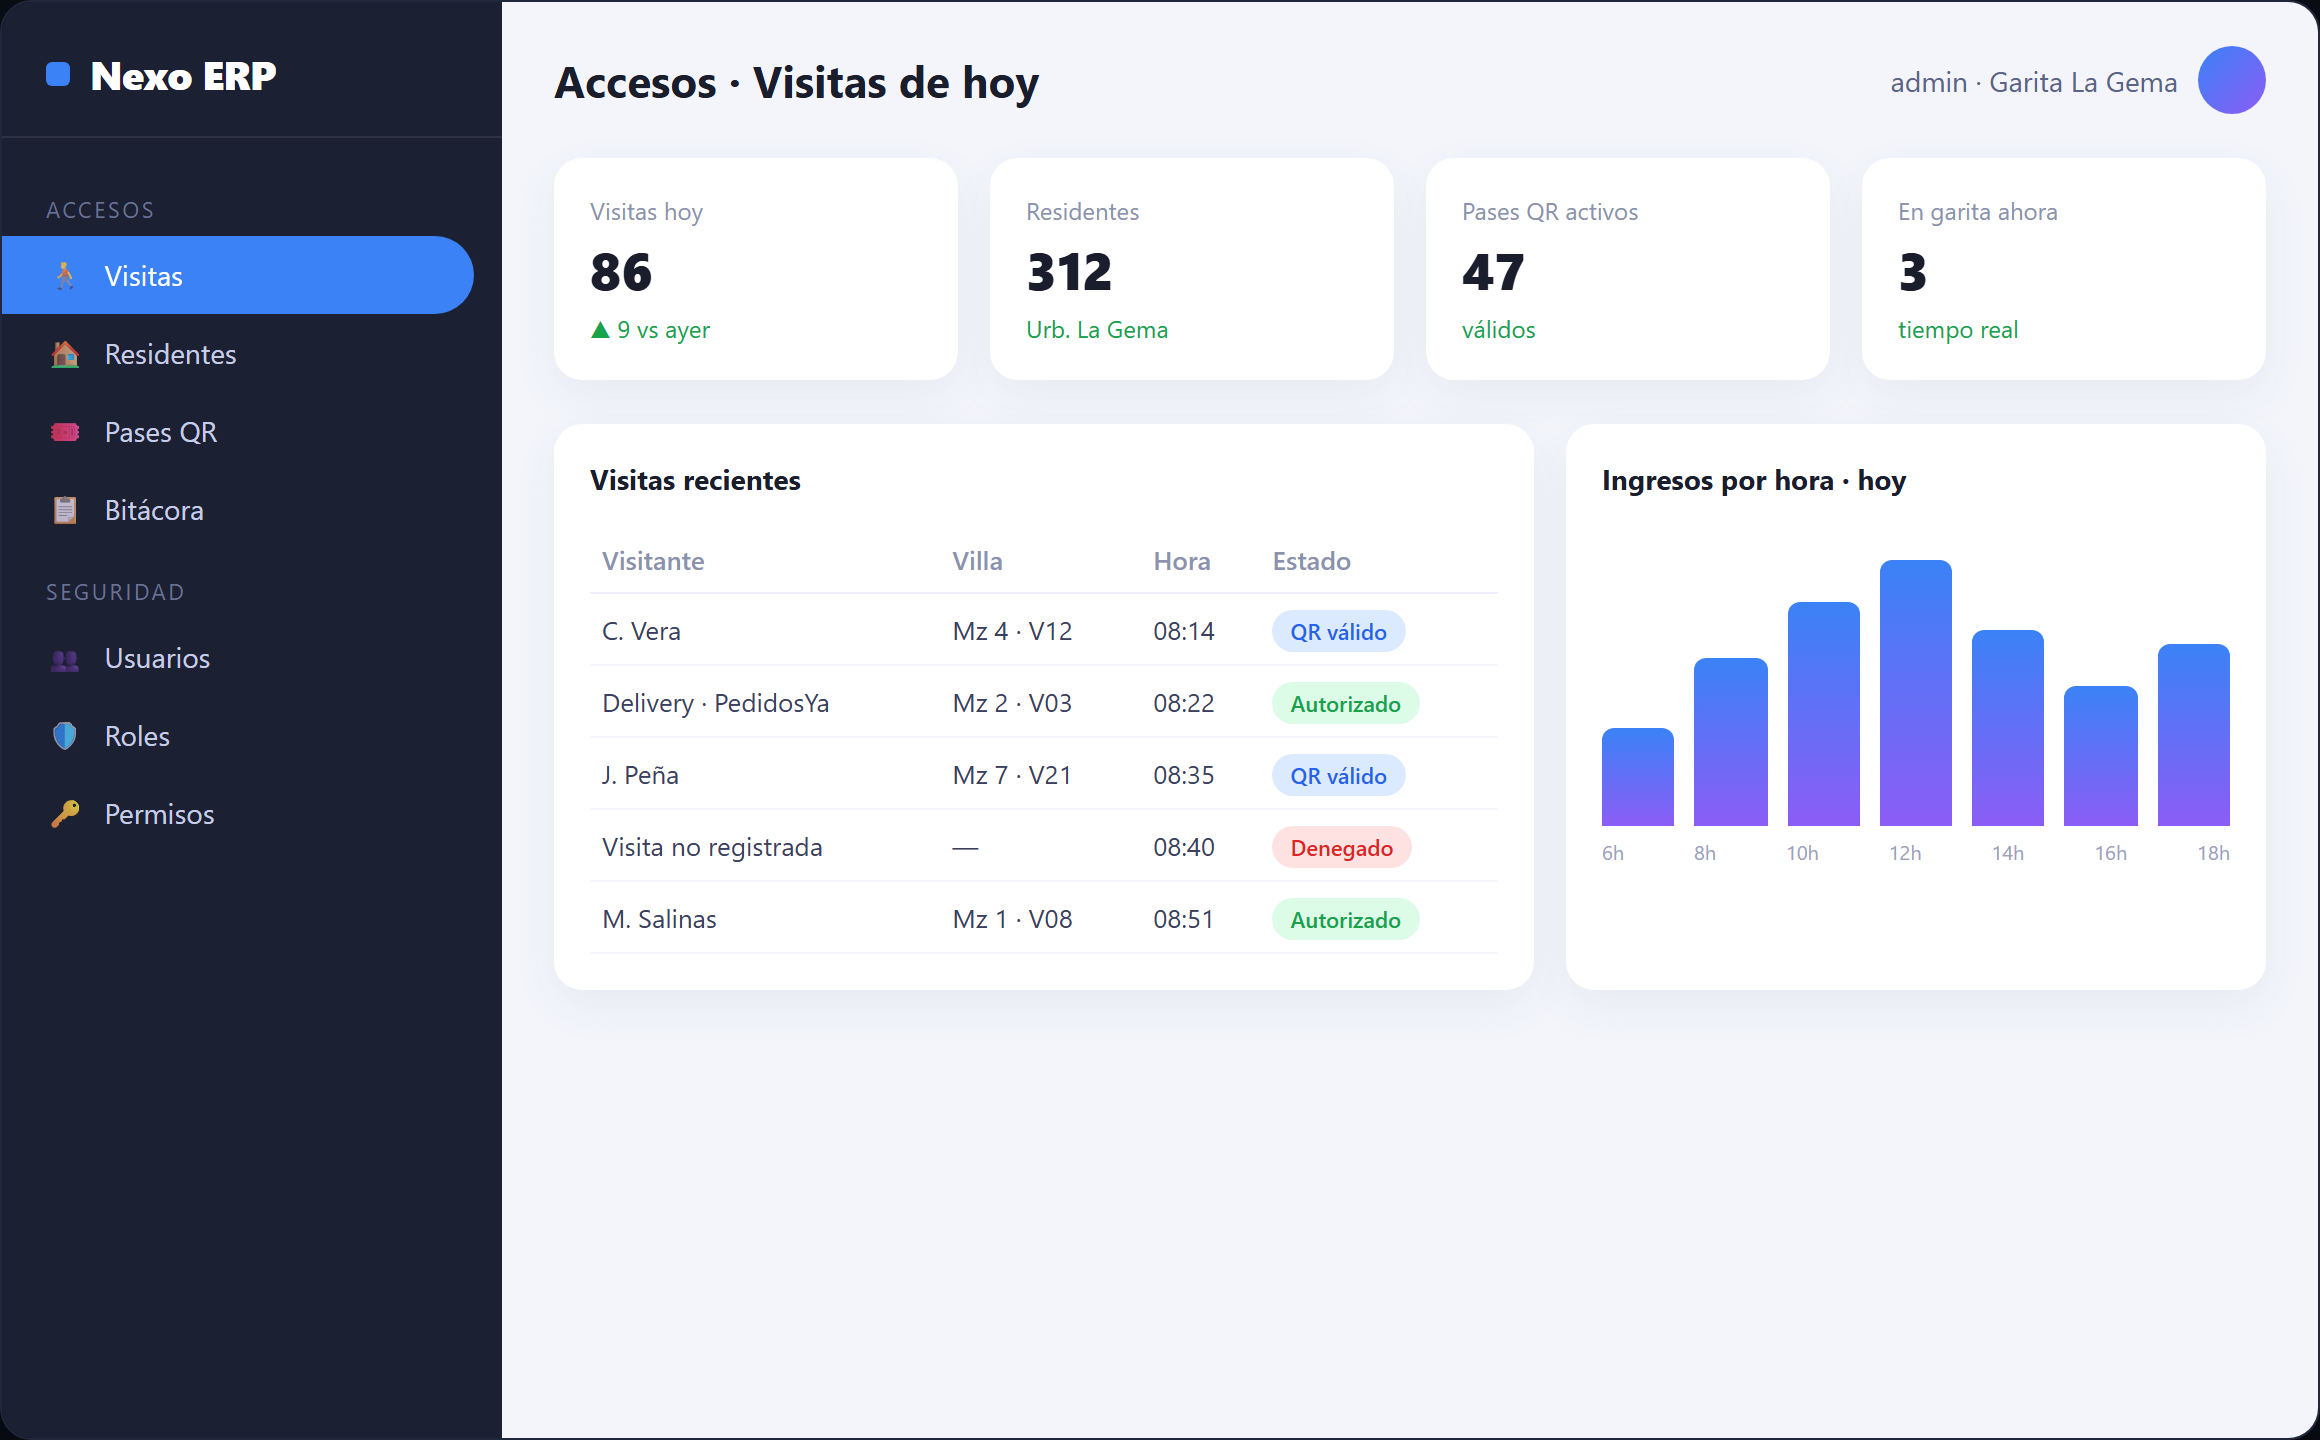
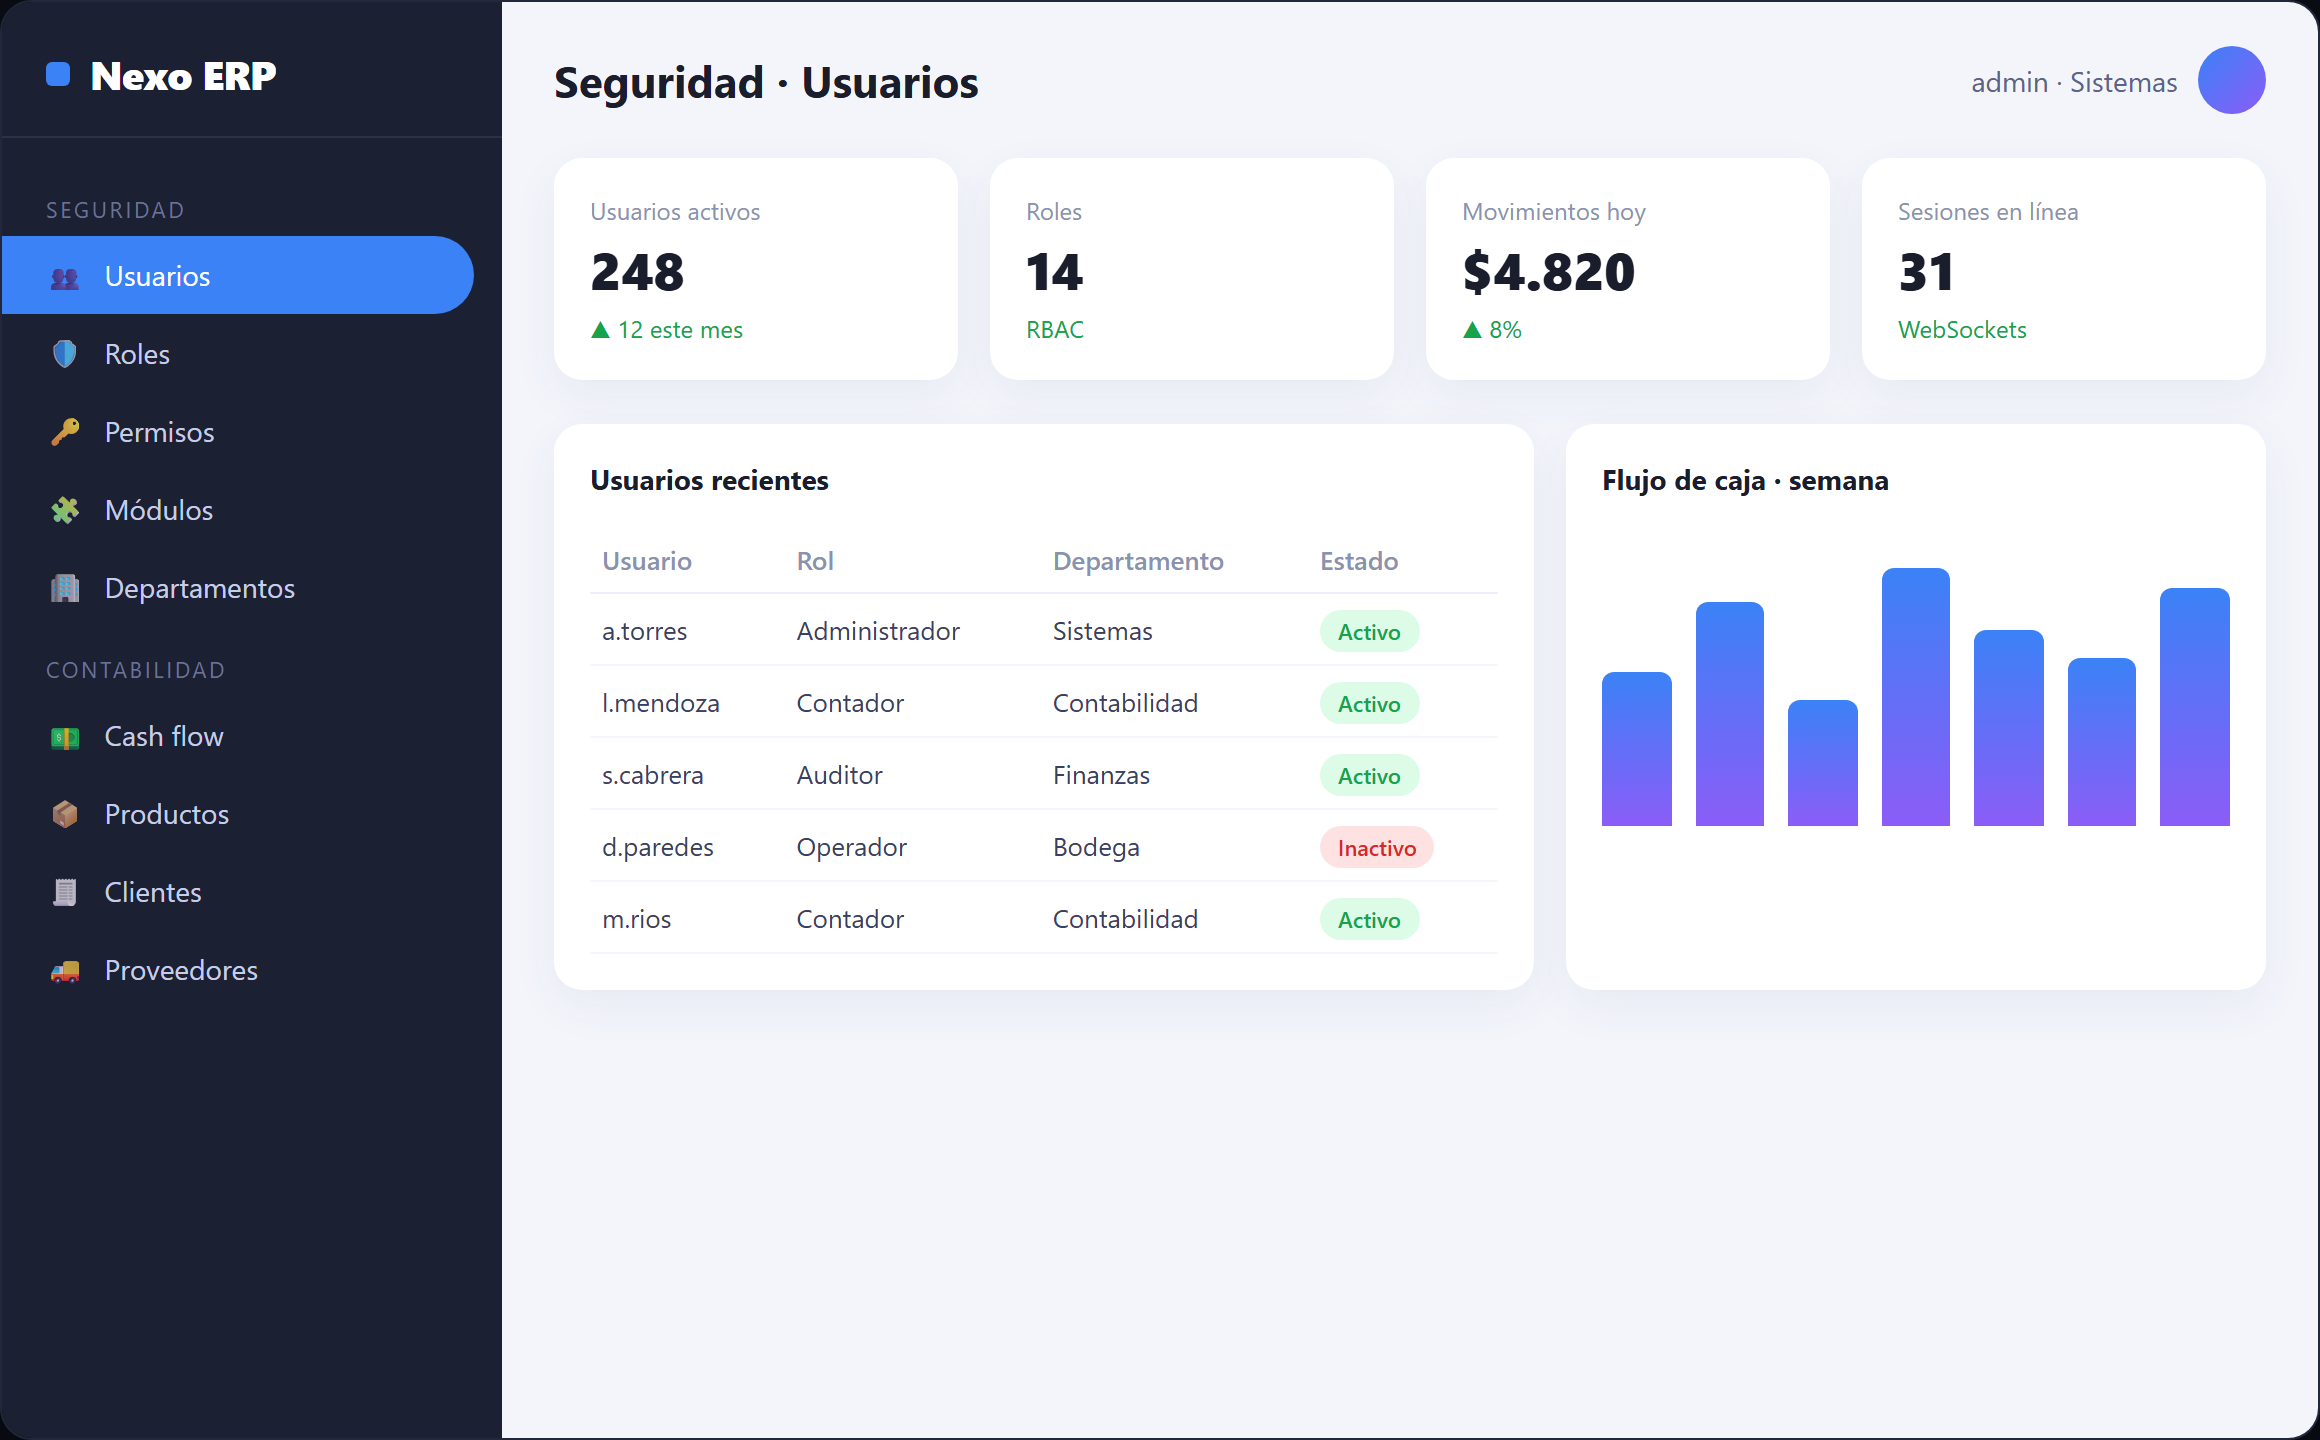
fix(nexo): represent the repo as the ERP base project, not the final product
Correcting my earlier over-adaptation: the repo is the base ERP fork, not the
residential access-control system. Restored the accurate base description
(Seguridad/RBAC + Contabilidad; JWT, LDAP/AD, WebSockets, PDF/barcode, thermal
POS, Excel, ODBC — all verified against composer.json), reverted the thesis
framing/link and the base-ERP mock. Kept only the SVPlatform -> Nexo ERP rename.

diff --git a/src/App.tsx b/src/App.tsx
@@ -196,20 +196,13 @@ function ProjectCard({ project, index }: { project: Project; index: number }) {
           <div className="project-tags">
             {project.tags.map((tag) => <span key={tag} className="tag">{tag}</span>)}
           </div>
-          <div className="project-links">
-            {project.private ? (
-              <span className="project-link project-private">🔒 {lang === "es" ? "Repositorio privado" : "Private repository"}</span>
-            ) : (
-              <a className="project-link" href={project.repo} target="_blank" rel="noreferrer">
-                {tr(strings.work.view, lang)} ↗
-              </a>
-            )}
-            {project.paper && (
-              <a className="project-link" href={project.paper} target="_blank" rel="noreferrer">
-                {lang === "es" ? "Ver tesis" : "View thesis"} ↗
-              </a>
-            )}
-          </div>
+          {project.private ? (
+            <span className="project-link project-private">🔒 {lang === "es" ? "Repositorio privado" : "Private repository"}</span>
+          ) : (
+            <a className="project-link" href={project.repo} target="_blank" rel="noreferrer">
+              {tr(strings.work.view, lang)} ↗
+            </a>
+          )}
         </div>
       </article>
     </Reveal>

diff --git a/src/content.ts b/src/content.ts
@@ -77,7 +77,6 @@ export interface Project {
   repo: string;
   shots: string[];
   private?: boolean;
-  paper?: string;
 }
 
 export const projects: Project[] = [
@@ -149,16 +148,15 @@ export const projects: Project[] = [
   {
     key: "nexo",
     name: "Nexo ERP",
-    tagline: { es: "Control de acceso residencial · web + móvil", en: "Residential access control · web + mobile" },
+    tagline: { es: "Plataforma ERP empresarial (proyecto base)", en: "Enterprise ERP platform (base project)" },
     description: {
-      es: "Proyecto de titulación (UNEMI, 2022) co-desarrollado con Israel Zambrano: aplicación móvil + sistema web para gestionar el ingreso de visitas a la urbanización «La Gema» (Guayaquil). Los visitantes acceden con un código QR validado en garita; la administración gestiona residentes, usuarios, roles y permisos (RBAC) y la bitácora de accesos. Construido sobre una base ERP en Laravel + Vue.js (SPA) con PostgreSQL, autenticación JWT y generación de PDF/códigos QR.",
-      en: "Capstone thesis (UNEMI, 2022) co-developed with Israel Zambrano: a mobile app + web system to manage visitor entry to the “La Gema” gated community (Guayaquil). Visitors get in with a QR code validated at the gate; administrators manage residents, users, roles and permissions (RBAC) and the access log. Built on a Laravel + Vue.js (SPA) ERP base with PostgreSQL, JWT auth and PDF/QR generation.",
+      es: "Plataforma de administración empresarial (Laravel + Vue SPA) con módulo de Seguridad —RBAC completo: usuarios, roles, permisos, módulos, grupos y departamentos— y módulo de Contabilidad —flujo de caja, mantenimientos (productos, clientes, proveedores) y transacciones—. Autenticación JWT y LDAP/Active Directory, notificaciones en tiempo real con WebSockets, generación de PDF/códigos de barra e impresión térmica (POS), exportación a Excel e integración vía ODBC. Sirvió como base para proyectos posteriores.",
+      en: "Enterprise administration platform (Laravel + Vue SPA) with a Security module —full RBAC: users, roles, permissions, modules, groups, departments— and an Accounting module —cash flow, master-data CRUD (products, clients, suppliers) and transactions—. JWT + LDAP/Active Directory auth, real-time notifications over WebSockets, PDF/barcode generation and thermal (POS) printing, Excel export and ODBC integration. Served as the base for later projects.",
     },
-    tags: ["Laravel", "Vue.js", "PostgreSQL", "JWT · RBAC", "App móvil · QR", "Tesis UNEMI 2022"],
+    tags: ["Laravel", "Vue 2 · Vuex", "PostgreSQL", "JWT", "WebSockets", "RBAC"],
     featured: false,
     repo: "https://github.com/jcuadradoh2/nexo-erp",
     private: true,
-    paper: "https://repositorio.unemi.edu.ec/handle/123456789/6360",
     shots: ["dashboard-mock.png"],
   },
   {
@@ -187,7 +185,7 @@ export const skillGroups = [
 
 export const timeline = [
   { period: "2024 — Actualidad", title: { es: "Programador Full-Stack Senior — Freelance", en: "Senior Full-Stack Developer — Freelance" },
-    body: { es: "Diseño y desarrollo de plataformas web y apps móviles para clientes: backends con Django/Laravel, frontends en React/Vue/Angular/Flutter, IA aplicada y despliegue en la nube. Proyectos como dashboards analíticos, apps de comercio e integraciones a medida.", en: "Design and development of web platforms and mobile apps for clients: Django/Laravel backends, React/Vue/Angular/Flutter frontends, applied AI and cloud deployment. Projects such as analytics dashboards, e-commerce apps and custom integrations." } },
+    body: { es: "Diseño y desarrollo de plataformas web y apps móviles para clientes: backends con Django/Laravel, frontends en React/Vue/Angular/Flutter, IA aplicada y despliegue en la nube. Proyectos como Nexo ERP, dashboards analíticos y apps de comercio.", en: "Design and development of web platforms and mobile apps for clients: Django/Laravel backends, React/Vue/Angular/Flutter frontends, applied AI and cloud deployment. Projects such as Nexo ERP, analytics dashboards and e-commerce apps." } },
   { period: "Feb 2026 — Actualidad", title: { es: "Programador Semi Senior — WhistleCorp S.A.S", en: "Semi-Senior Developer — WhistleCorp S.A.S" },
     body: { es: "Backend a medida con Python, Django, DRF y FastAPI para gestión académica. Pipeline de OCR con Document AI (admisión), integración de LLMs y Ollama con visión multimodal, agentes inteligentes, observabilidad con Sentry y despliegue en GCP/Azure.", en: "Custom backends with Python, Django, DRF and FastAPI for academic management. Document AI OCR pipeline (admissions), LLM + Ollama multimodal integration, intelligent agents, Sentry observability and GCP/Azure deployment." } },
   { period: "2023 — 2026", title: { es: "Desarrollador de Software — UNEMI", en: "Software Developer — UNEMI" },

diff --git a/src/app.css b/src/app.css
@@ -68,7 +68,6 @@ section[id] { scroll-margin-top: 72px; }
 .badge.gold { background: linear-gradient(135deg, var(--brand), var(--accent)); color: #fff; border: none; }
 .project-desc { color: var(--text-dim); font-size: 15px; flex: 1; }
 .project-tags { display: flex; flex-wrap: wrap; gap: 8px; }
-.project-links { display: flex; flex-wrap: wrap; gap: 18px; align-items: center; }
 .project-link { font-family: var(--font-sans); font-weight: 600; color: var(--brand); width: fit-content; }
 .project-link:hover { text-decoration: underline; }
 @media (max-width: 820px) {